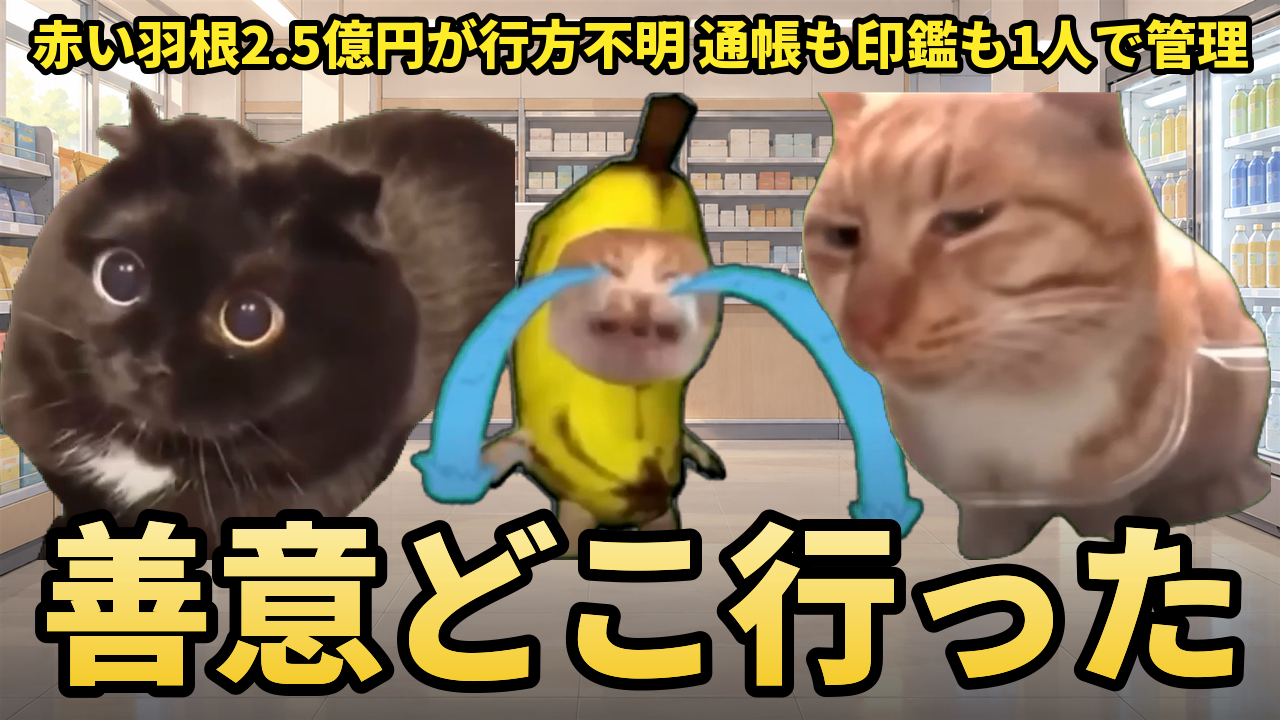
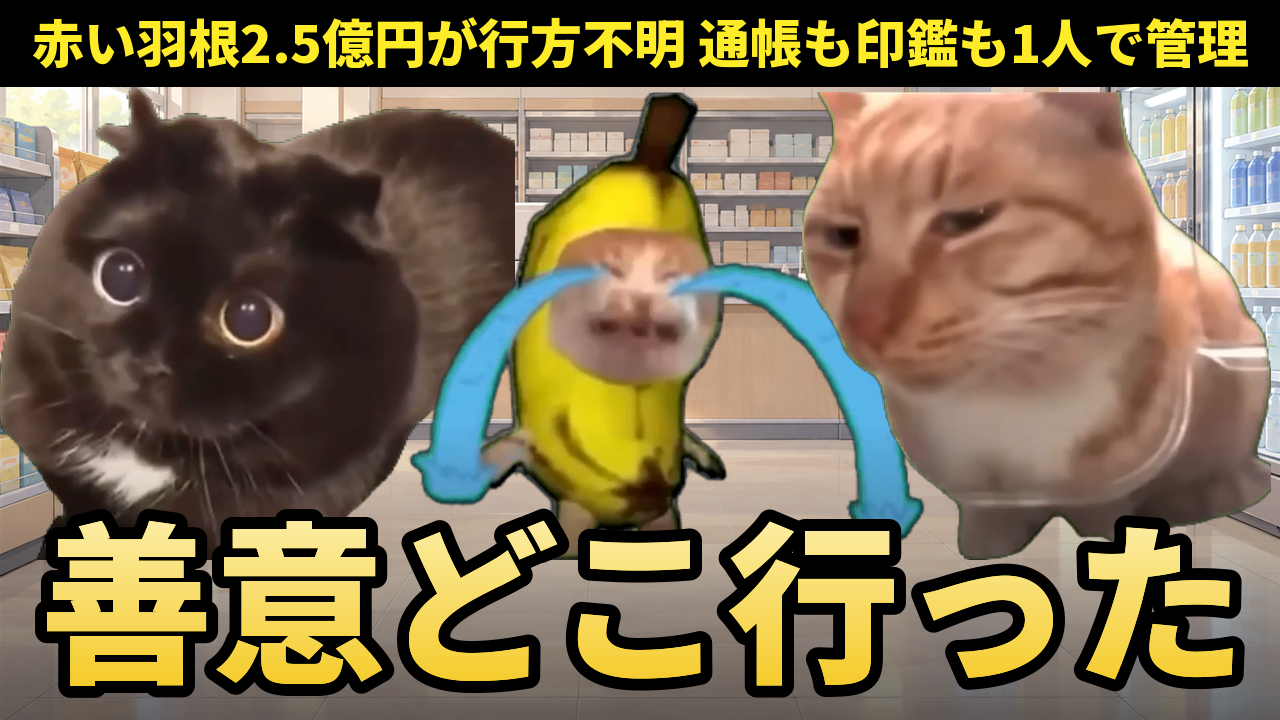
長尺サムネC型：上の1行を黒い帯にのせる
Claude-Session: https://claude.ai/code/session_011g9CsrfFD5YswfNSvNDW39

Changed region(s): [[0.0, 0.0, 1.0, 0.1222]]

diff --git a/catmeme/make_thumb_long_ref.py b/catmeme/make_thumb_long_ref.py
@@ -5,7 +5,7 @@
   下4割は黄色の地に、黒い極太文字2行（大事な言葉だけ青・赤）、白い縁取り
 - B（「ここは大人の遊園地だ！」型）：写真4枚を縦に切って横に並べる。赤い矢印と黄色の書き文字で写真の中を指す。
   下に白〜黄色のグラデーションの帯、赤い文字と紺の文字の2行、白い太縁＋影
-- C（「全員日本に連れてけ」型）：写真を全面に。上の端に黄色い小さめの1行（黒縁）、下に黄色グラデーションの超巨大文字1行（黒い太縁）
+- C（「全員日本に連れてけ」型）：写真を全面に。上の端の黒い帯に黄色い小さめの1行（黒縁）、下に黄色グラデーションの超巨大文字1行（黒い太縁）
 - 右下（約1060〜1270, 640〜700）は再生時間の表示で隠れるので、大事な文字は置かない
 - 猫ミームは写真の中に入れ込む
 
@@ -163,7 +163,8 @@ def type_c(name, bg, cats, top, big):
         sd.line((0, y, W, y), fill=(0, 0, 0, a))
     img.alpha_composite(shade)
     t = runs([(top, (YELLOW, BLACK))], 64, 6, W - 30)
-    img.alpha_composite(t, ((W - t.width) // 2, 12))
+    ImageDraw.Draw(img).rectangle((0, 0, W, t.height + 22), fill=BLACK + (255,))   # 上の1行は黒い帯にのせる（参考どおり・10/13）
+    img.alpha_composite(t, ((W - t.width) // 2, 11))
     b = runs([(big, (YELLOW, BLACK))], 230, 12, W - 40, grad=((255, 250, 210), (245, 200, 30)))
     img.alpha_composite(b, ((W - b.width) // 2, H - b.height - 22))
     save(img, name)
